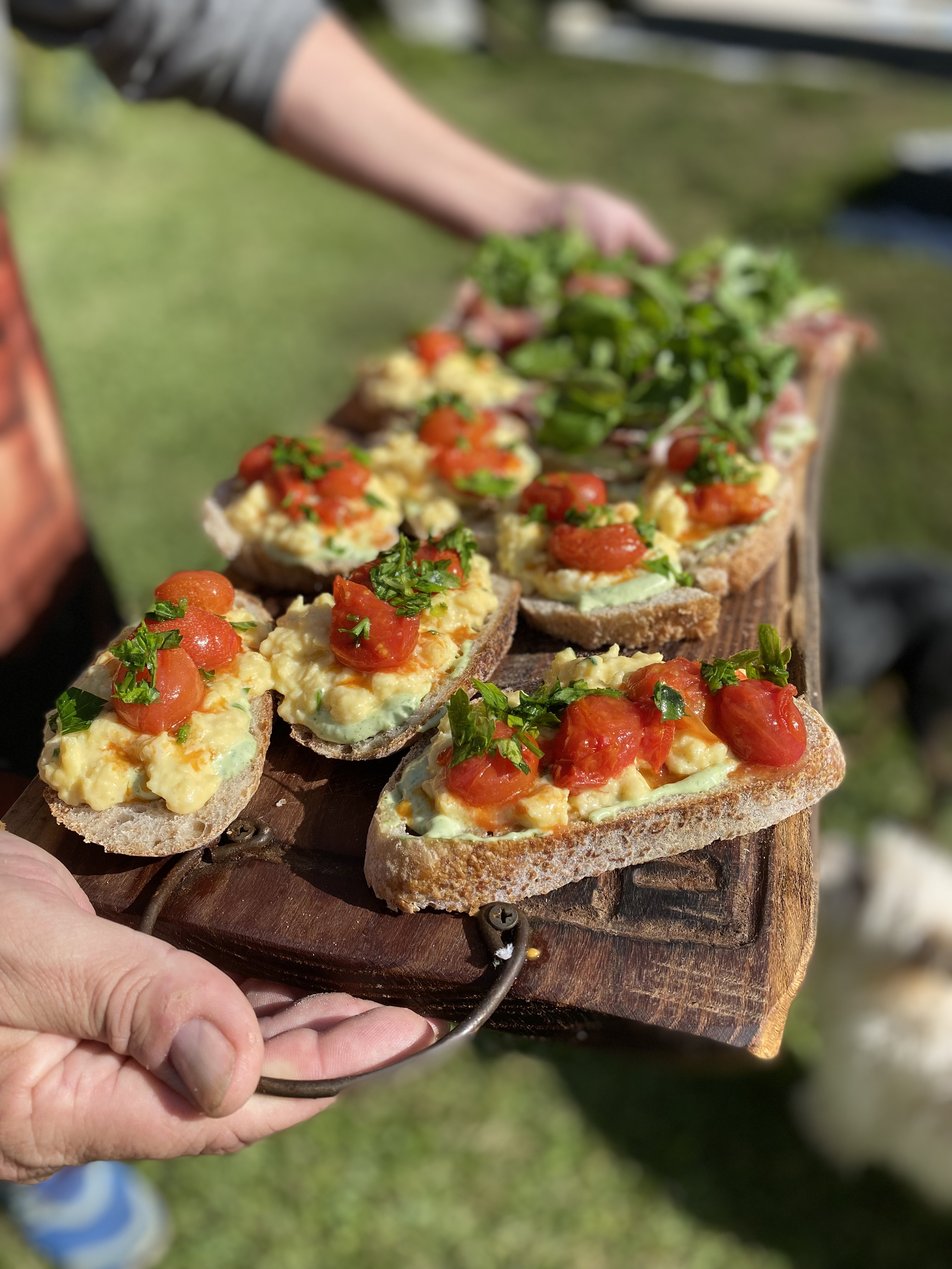
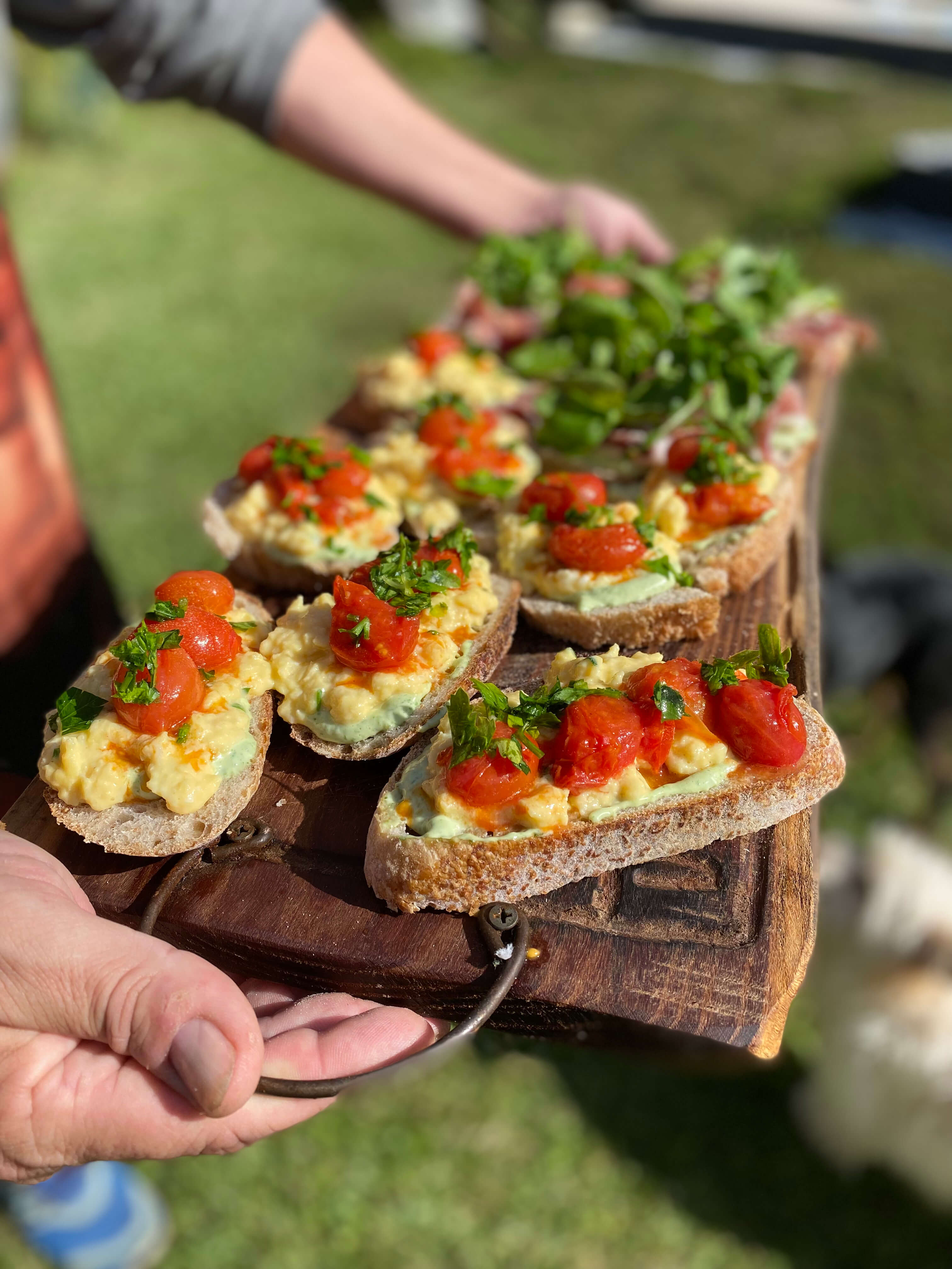
comprimi imagenes

diff --git a/pages/contacto.html b/pages/contacto.html
@@ -5,6 +5,7 @@
     <meta charset="UTF-8" />
     <meta http-equiv="X-UA-Compatible" content="IE=edge" />
     <meta name="viewport" content="width=device-width, initial-scale=1.0" />
+    <meta name="keywords" content="pan, masa madre, panaderia, cocina">
     <script src="https://kit.fontawesome.com/6fc25906a6.js" crossorigin="anonymous"></script>
     <link rel="preconnect" href="https://fonts.googleapis.com" />
     <link rel="preconnect" href="https://fonts.gstatic.com" crossorigin />

diff --git a/pages/galeria.html b/pages/galeria.html
@@ -5,6 +5,7 @@
     <meta charset="UTF-8" />
     <meta http-equiv="X-UA-Compatible" content="IE=edge" />
     <meta name="viewport" content="width=device-width, initial-scale=1.0" />
+    <meta name="keywords" content="pan, masa madre, panaderia, cocina">
     <script src="https://kit.fontawesome.com/6fc25906a6.js" crossorigin="anonymous"></script>
     <link rel="preconnect" href="https://fonts.googleapis.com" />
     <link rel="preconnect" href="https://fonts.gstatic.com" crossorigin />

diff --git a/pages/nosotros.html b/pages/nosotros.html
@@ -5,6 +5,7 @@
     <meta charset="UTF-8" />
     <meta http-equiv="X-UA-Compatible" content="IE=edge" />
     <meta name="viewport" content="width=device-width, initial-scale=1.0" />
+    <meta name="keywords" content="pan, masa madre, panaderia, cocina">
     <script src="https://kit.fontawesome.com/6fc25906a6.js" crossorigin="anonymous"></script>
     <link rel="preconnect" href="https://fonts.googleapis.com" />
     <link rel="preconnect" href="https://fonts.gstatic.com" crossorigin />

diff --git a/pages/productos.html b/pages/productos.html
@@ -5,6 +5,7 @@
     <meta charset="UTF-8" />
     <meta http-equiv="X-UA-Compatible" content="IE=edge" />
     <meta name="viewport" content="width=device-width, initial-scale=1.0" />
+    <meta name="keywords" content="pan, masa madre, panaderia, cocina">
     <script src="https://kit.fontawesome.com/6fc25906a6.js" crossorigin="anonymous"></script>
     <link rel="preconnect" href="https://fonts.googleapis.com" />
     <link rel="preconnect" href="https://fonts.gstatic.com" crossorigin />
